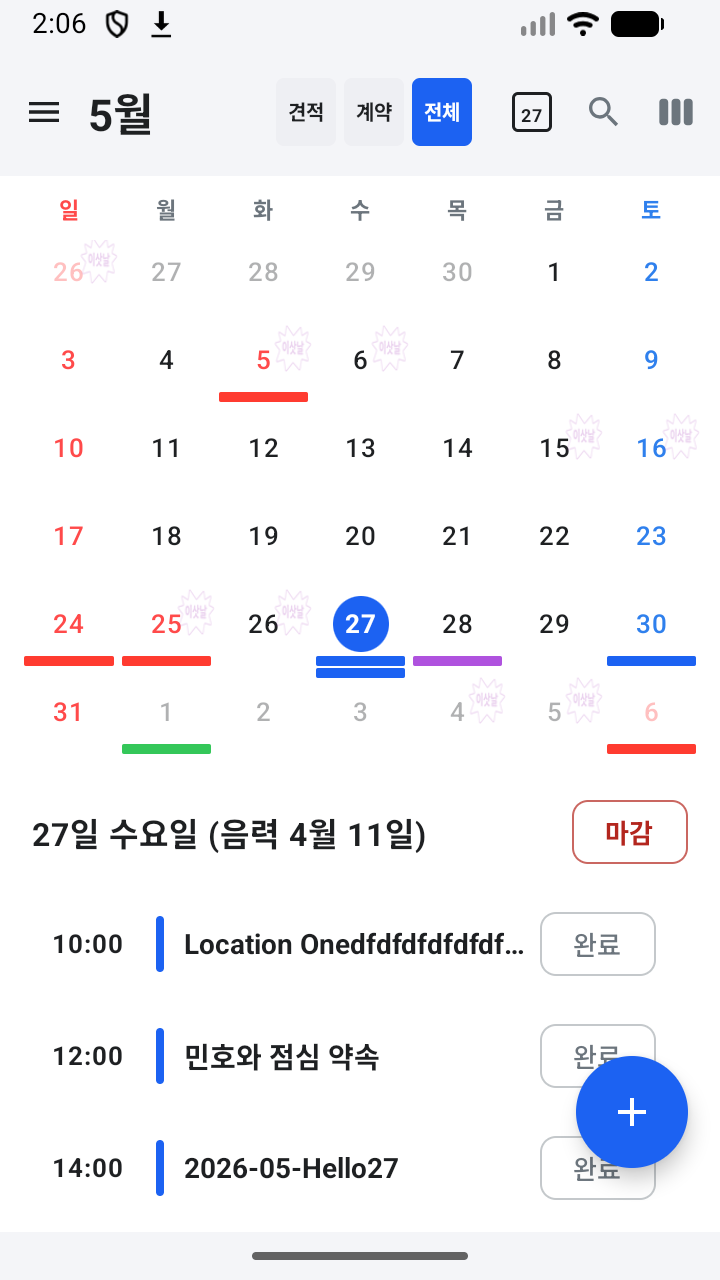
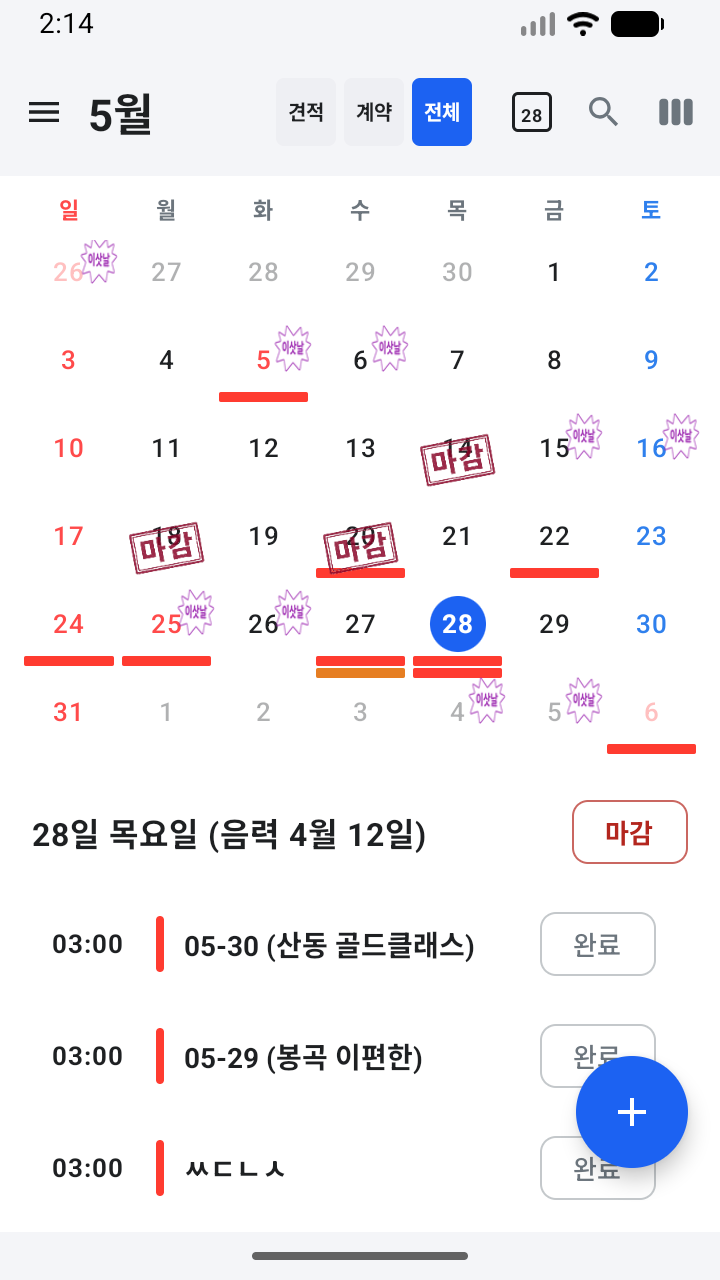
Release v1.0.22: Address placeholders and save button UI updates

diff --git a/app/src/main/java/com/example/danallacalendar/ui/screens/AddEditEventScreen.kt b/app/src/main/java/com/example/danallacalendar/ui/screens/AddEditEventScreen.kt
@@ -60,7 +60,7 @@ val calendarColors = listOf(
     "#1abc9c"  // Turquoise
 )
 
-@OptIn(ExperimentalMaterial3Api::class)
+@OptIn(ExperimentalMaterial3Api::class, androidx.compose.foundation.layout.ExperimentalLayoutApi::class)
 @Composable
 fun AddEditEventScreen(
     eventId: Int?,
@@ -159,6 +159,34 @@ fun AddEditEventScreen(
         }
     }
 
+    val onSaveClick = {
+        if (title.isNotBlank() && selectedCategory != null) {
+            val event = Event(
+                id = eventId ?: 0,
+                title = title,
+                startMillis = startMillis,
+                endMillis = endMillis,
+                isAllDay = isAllDay,
+                location = listOf(location, location1b, location2, location2b)
+                    .joinToString("|||"),
+                notes = notes,
+                repeatType = repeatType,
+                reminderMinutes = reminderMinutes,
+                calendarId = selectedCategory!!.id,
+                colorHex = selectedColorHex
+            )
+            if (eventId == null) {
+                viewModel.addEvent(event)
+            } else {
+                viewModel.updateEvent(event)
+            }
+            prefs.edit().putInt("last_used_category_id", selectedCategory!!.id).apply()
+            onNavigateBack()
+        }
+    }
+
+    val isImeVisible = WindowInsets.isImeVisible
+
     Scaffold(
         topBar = {
             TopAppBar(
@@ -169,33 +197,12 @@ fun AddEditEventScreen(
                     }
                 },
                 actions = {
-                    TextButton(
-                        onClick = {
-                            if (title.isNotBlank() && selectedCategory != null) {
-                                val event = Event(
-                                    id = eventId ?: 0,
-                                    title = title,
-                                    startMillis = startMillis,
-                                    endMillis = endMillis,
-                                    isAllDay = isAllDay,
-                                    location = listOf(location, location1b, location2, location2b)
-                                        .joinToString("|||"),
-                                    notes = notes,
-                                    repeatType = repeatType,
-                                    reminderMinutes = reminderMinutes,
-                                    calendarId = selectedCategory!!.id,
-                                    colorHex = selectedColorHex
-                                )
-                                if (eventId == null) {
-                                    viewModel.addEvent(event)
-                                } else {
-                                    viewModel.updateEvent(event)
-                                }
-                                prefs.edit().putInt("last_used_category_id", selectedCategory!!.id).apply()
-                                onNavigateBack()
-                            }
-                        },
-                        enabled = title.isNotBlank() && !isReadOnly
+                    Button(
+                        onClick = onSaveClick,
+                        enabled = title.isNotBlank() && !isReadOnly,
+                        contentPadding = PaddingValues(horizontal = 20.dp, vertical = 8.dp),
+                        shape = RoundedCornerShape(10.dp),
+                        modifier = Modifier.padding(end = 8.dp).height(40.dp)
                     ) {
                         Text("저장", fontSize = 16.sp, fontWeight = FontWeight.Bold)
                     }
@@ -204,6 +211,38 @@ fun AddEditEventScreen(
                     containerColor = MaterialTheme.colorScheme.surface
                 )
             )
+        },
+        bottomBar = {
+            if (isImeVisible && !isReadOnly) {
+                Surface(
+                    modifier = Modifier
+                        .fillMaxWidth()
+                        .navigationBarsPadding()
+                        .imePadding(),
+                    tonalElevation = 8.dp,
+                    shadowElevation = 8.dp,
+                    color = MaterialTheme.colorScheme.surface
+                ) {
+                    Row(
+                        modifier = Modifier
+                            .fillMaxWidth()
+                            .padding(horizontal = 16.dp, vertical = 8.dp),
+                        horizontalArrangement = Arrangement.End,
+                        verticalAlignment = Alignment.CenterVertically
+                    ) {
+                        Button(
+                            onClick = onSaveClick,
+                            enabled = title.isNotBlank(),
+                            shape = RoundedCornerShape(10.dp),
+                            modifier = Modifier
+                                .fillMaxWidth()
+                                .height(48.dp)
+                        ) {
+                            Text("저장", fontSize = 16.sp, fontWeight = FontWeight.Bold)
+                        }
+                    }
+                }
+            }
         },
         modifier = modifier
     ) { paddingValues ->
@@ -345,24 +384,7 @@ fun AddEditEventScreen(
                     modifier = Modifier.padding(horizontal = 16.dp, vertical = 8.dp),
                     verticalArrangement = Arrangement.spacedBy(8.dp)
                 ) {
-                    // ── 위치 1 그룹 헤더 ──
-                    Row(
-                        modifier = Modifier
-                            .fillMaxWidth()
-                            .background(
-                                color = MaterialTheme.colorScheme.primaryContainer.copy(alpha = 0.35f),
-                                shape = RoundedCornerShape(8.dp)
-                            )
-                            .padding(horizontal = 8.dp, vertical = 4.dp),
-                        verticalAlignment = Alignment.CenterVertically
-                    ) {
-                        Text(
-                            text = "위치 1",
-                            fontSize = 12.sp,
-                            fontWeight = FontWeight.Bold,
-                            color = MaterialTheme.colorScheme.primary
-                        )
-                    }
+
 
                     // ── 위치 1 상단 ──
                     Row(
@@ -375,7 +397,7 @@ fun AddEditEventScreen(
                         ) {
                             if (location.isEmpty()) {
                                 Text(
-                                    text = "상단 주소",
+                                    text = "출발지 주소",
                                     fontSize = 15.sp,
                                     color = MaterialTheme.colorScheme.onSurfaceVariant,
                                     modifier = Modifier.padding(vertical = 4.dp)
@@ -436,7 +458,7 @@ fun AddEditEventScreen(
                         ) {
                             if (location1b.isEmpty()) {
                                 Text(
-                                    text = "하단 주소",
+                                    text = "동/호수",
                                     fontSize = 15.sp,
                                     color = MaterialTheme.colorScheme.onSurfaceVariant,
                                     modifier = Modifier.padding(vertical = 4.dp)
@@ -467,23 +489,7 @@ fun AddEditEventScreen(
                     )
                     Spacer(modifier = Modifier.height(4.dp))
 
-                    Row(
-                        modifier = Modifier
-                            .fillMaxWidth()
-                            .background(
-                                color = MaterialTheme.colorScheme.secondaryContainer.copy(alpha = 0.45f),
-                                shape = RoundedCornerShape(8.dp)
-                            )
-                            .padding(horizontal = 8.dp, vertical = 4.dp),
-                        verticalAlignment = Alignment.CenterVertically
-                    ) {
-                        Text(
-                            text = "위치 2",
-                            fontSize = 12.sp,
-                            fontWeight = FontWeight.Bold,
-                            color = MaterialTheme.colorScheme.secondary
-                        )
-                    }
+
 
                     // ── 위치 2 상단 ──
                     Row(
@@ -496,7 +502,7 @@ fun AddEditEventScreen(
                         ) {
                             if (location2.isEmpty()) {
                                 Text(
-                                    text = "상단 주소",
+                                    text = "도착지 주소",
                                     fontSize = 15.sp,
                                     color = MaterialTheme.colorScheme.onSurfaceVariant,
                                     modifier = Modifier.padding(vertical = 4.dp)
@@ -558,7 +564,7 @@ fun AddEditEventScreen(
                         ) {
                             if (location2b.isEmpty()) {
                                 Text(
-                                    text = "하단 주소",
+                                    text = "동/호수",
                                     fontSize = 15.sp,
                                     color = MaterialTheme.colorScheme.onSurfaceVariant,
                                     modifier = Modifier.padding(vertical = 4.dp)
@@ -1058,12 +1064,14 @@ fun DateButton(millis: Long, modifier: Modifier = Modifier, onClick: () -> Unit)
             .clip(RoundedCornerShape(8.dp))
             .background(MaterialTheme.colorScheme.surfaceVariant)
             .clickable { onClick() }
-            .padding(horizontal = 12.dp, vertical = 6.dp),
+            .padding(horizontal = 4.dp, vertical = 6.dp),
         contentAlignment = Alignment.Center
     ) {
         Text(
             text = label, 
-            fontSize = 14.sp,
+            fontSize = 12.sp,
+            maxLines = 1,
+            softWrap = false,
             textAlign = androidx.compose.ui.text.style.TextAlign.Center
         )
     }
@@ -1078,12 +1086,14 @@ fun TimeButton(millis: Long, modifier: Modifier = Modifier, onClick: () -> Unit)
             .clip(RoundedCornerShape(8.dp))
             .background(MaterialTheme.colorScheme.surfaceVariant)
             .clickable { onClick() }
-            .padding(horizontal = 12.dp, vertical = 6.dp),
+            .padding(horizontal = 4.dp, vertical = 6.dp),
         contentAlignment = Alignment.Center
     ) {
         Text(
             text = label, 
-            fontSize = 14.sp,
+            fontSize = 12.sp,
+            maxLines = 1,
+            softWrap = false,
             textAlign = androidx.compose.ui.text.style.TextAlign.Center
         )
     }

diff --git a/app/src/main/java/com/example/danallacalendar/ui/screens/CalendarMainScreen.kt b/app/src/main/java/com/example/danallacalendar/ui/screens/CalendarMainScreen.kt
@@ -1208,8 +1208,14 @@ fun EventItemCard(
                 }
 
                 Column(modifier = Modifier.weight(1f)) {
+                    val startLocation = event.location.split("|||").getOrNull(0)?.trim() ?: ""
+                    val displayText = if (startLocation.isNotEmpty()) {
+                        "${event.title} ($startLocation)"
+                    } else {
+                        event.title
+                    }
                     Text(
-                        text = event.title,
+                        text = displayText,
                         fontSize = 14.sp,
                         fontWeight = FontWeight.Bold,
                         color = contentColor,

diff --git a/app/src/main/java/com/example/danallacalendar/ui/components/RecentCallsPickerDialog.kt b/app/src/main/java/com/example/danallacalendar/ui/components/RecentCallsPickerDialog.kt
@@ -62,7 +62,7 @@ suspend fun loadRecentCalls(context: Context): List<RecentCall> = withContext(Di
                 projection,
                 null,
                 null,
-                "${CallLog.Calls.DATE} DESC LIMIT 50"
+                "${CallLog.Calls.DATE} DESC LIMIT 5"
             )
 
             cursor?.use {